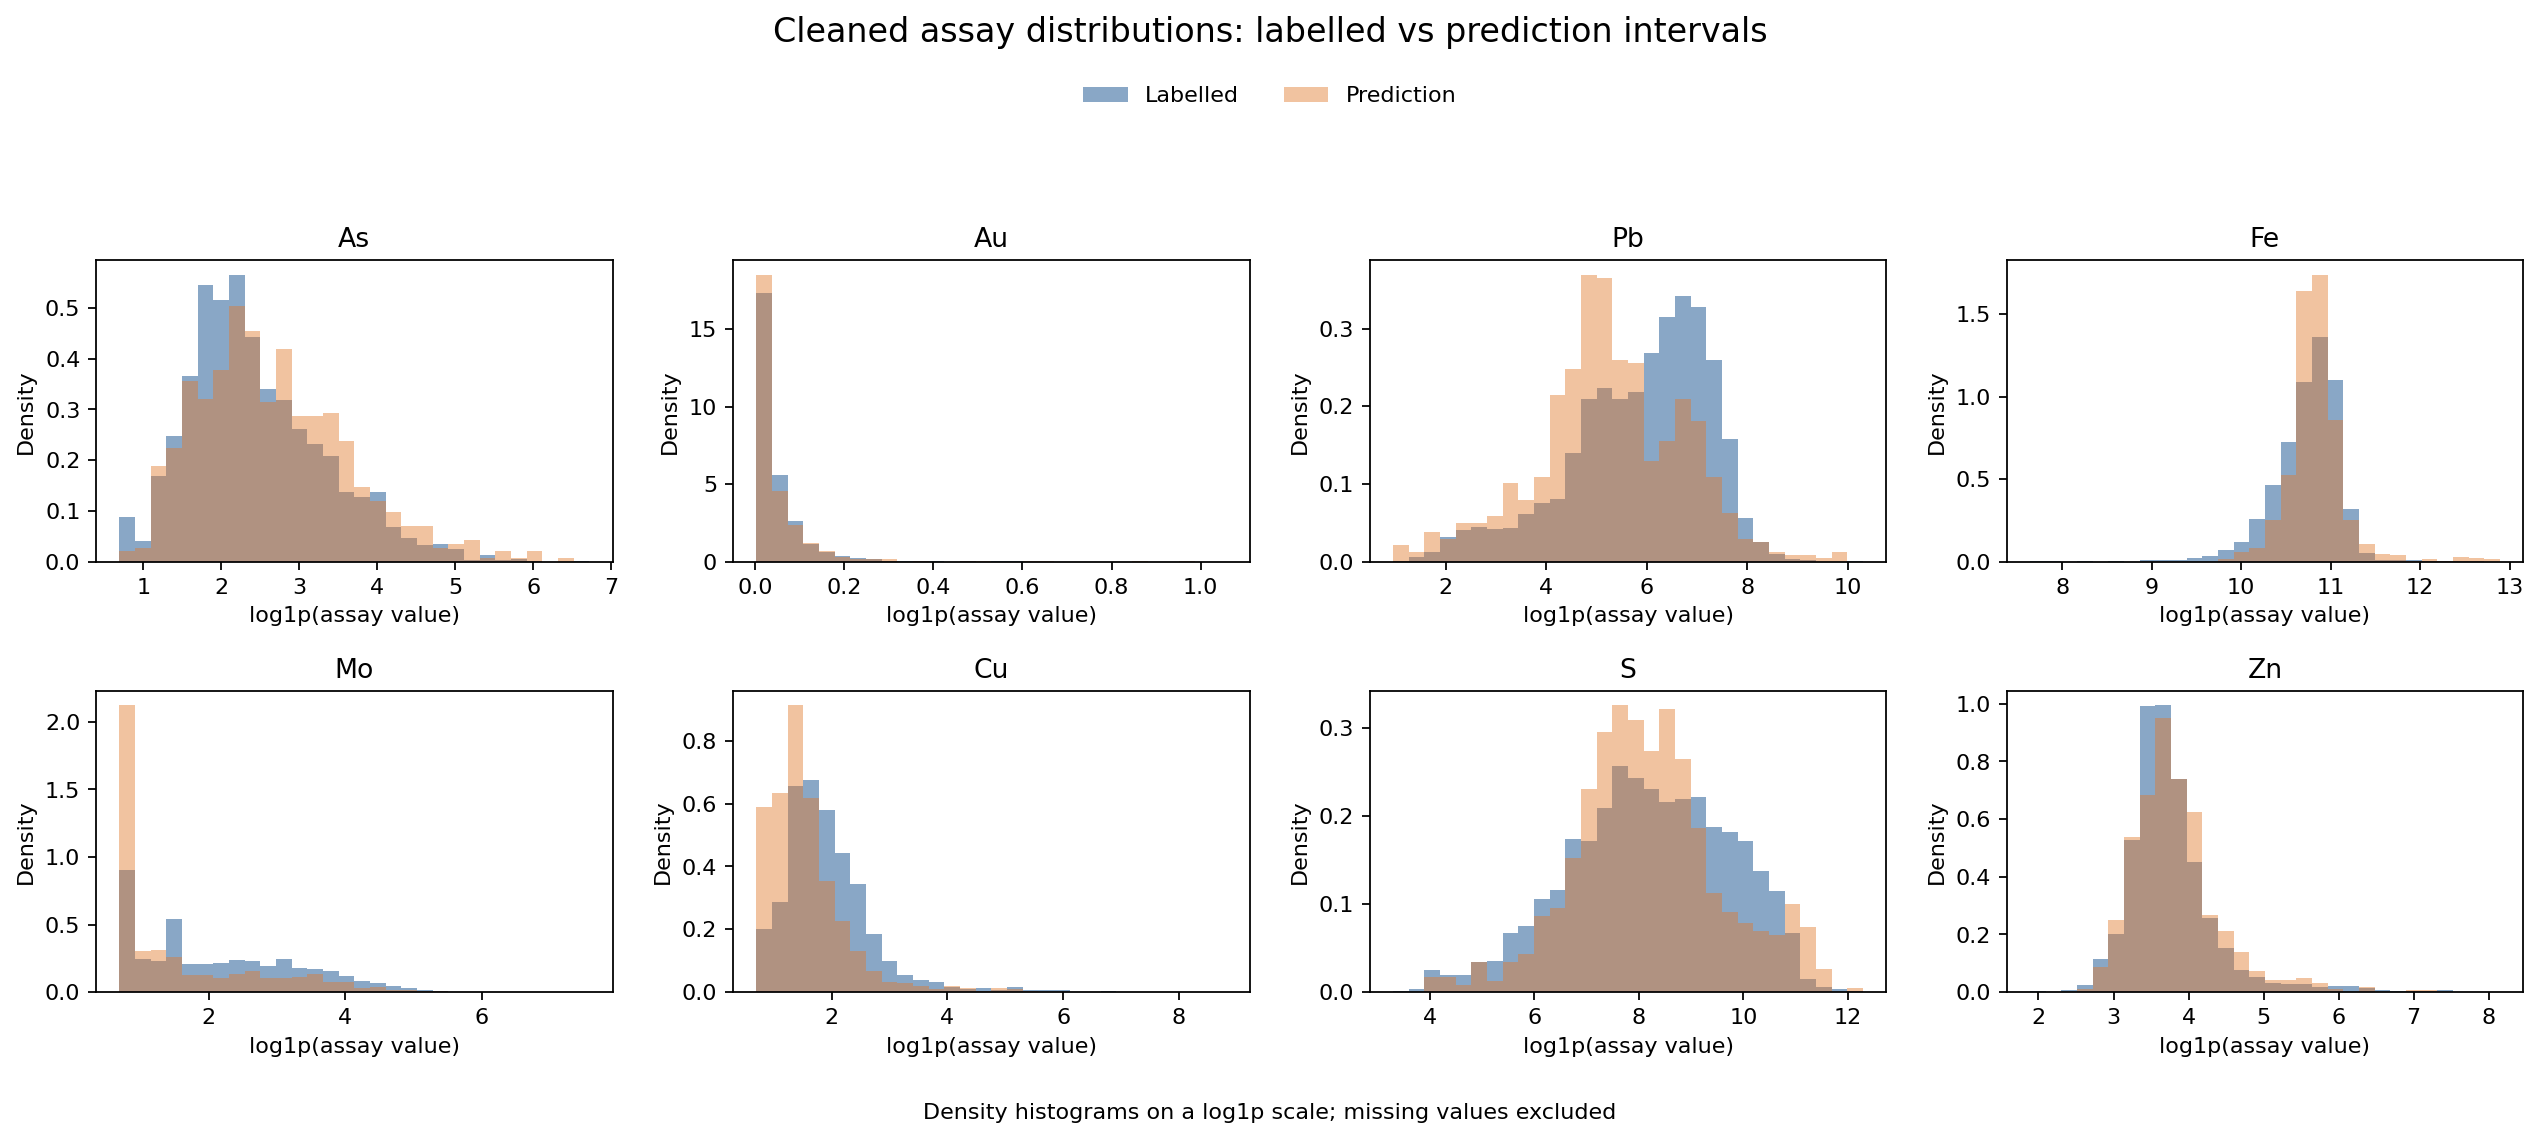
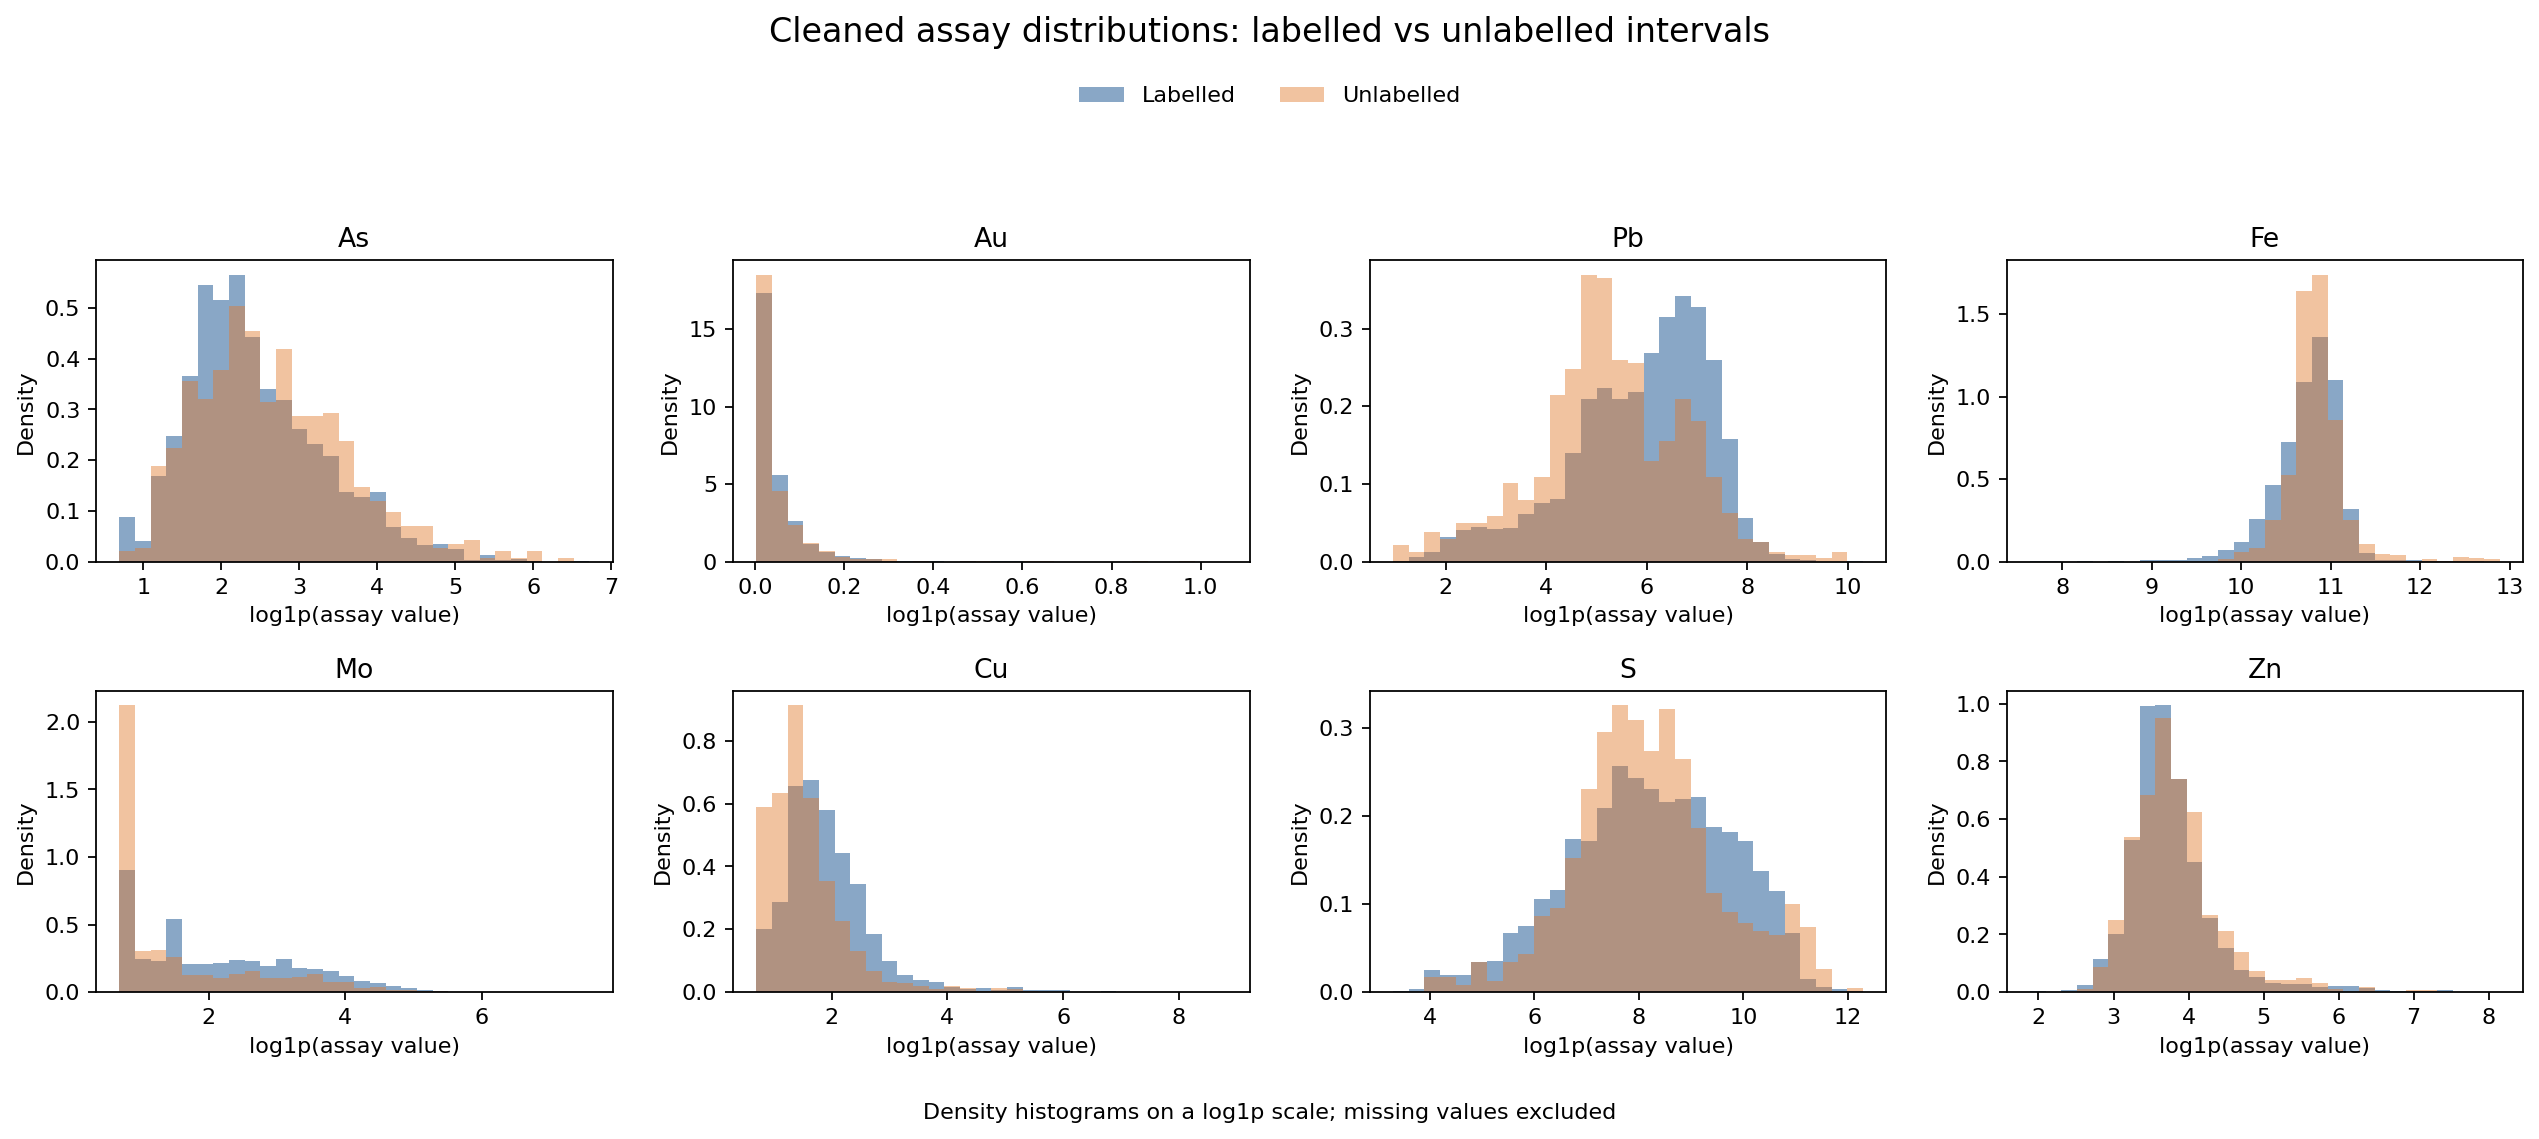
Clarify unlabelled dataset labels

Changed region(s): [[0.3111, 0.0, 0.6845, 0.0922]]

diff --git a/README.md b/README.md
@@ -46,12 +46,12 @@ The results support a predictive prototype. They do not by themselves establish 
 
 ## Data understanding and QA/QC
 
-The source contains 4,004 labelled intervals from 123 holes and 767 prediction intervals from 17 separate holes.
+The source contains 4,004 labelled intervals from 123 holes and 767 unlabelled intervals from 17 separate holes.
 
 | Dataset | Original classes | Intervals | Drill holes |
 |---|---|---:|---:|
 | Labelled | A: 2,861; B: 1,143 | 4,004 | 123 |
-| Prediction | `?`: 767 | 767 | 17 |
+| Unlabelled | `?`: 767 | 767 | 17 |
 
 The workflow checks duplicate sample identifiers, non-positive drill intervals, blank assays, below-detection-limit strings such as `<0.005`, and the `-999` sentinel.
 
@@ -59,7 +59,7 @@ For this exercise, `<x` is replaced with `x / 2`, while `-999` is converted to m
 
 The compact EDA below is calculated before model imputation. Raw quality counts cover the full dataset; missingness and skewness are calculated after applying the documented cleaning rules. Values reported as `<x` are censored assay results rather than missing values.
 
-| Assay | Blank/NA | `<x` values | `-999` | Labelled missing (%) | Prediction missing (%) | Labelled skewness |
+| Assay | Blank/NA | `<x` values | `-999` | Labelled missing (%) | Unlabelled missing (%) | Labelled skewness |
 |---|---:|---:|---:|---:|---:|---:|
 | As | 1,503 | 0 | 0 | 36.19 | 7.04 | 9.68 |
 | Au | 6 | 464 | 0 | 0.12 | 0.13 | 7.51 |
@@ -74,7 +74,7 @@ All eight labelled assay variables are strongly right-skewed on their original s
 
 ![Combined assay distributions](output/plots/assay_distributions.png)
 
-The figure compares cleaned, non-missing labelled and prediction values using density histograms on a `log1p` scale. Missingness is also compared directly between the two datasets.
+The figure compares cleaned, non-missing labelled and unlabelled values using density histograms on a `log1p` scale. Missingness is also compared directly between the two datasets.
 
 ![Missingness comparison](output/plots/missingness_comparison.png)
 
@@ -220,7 +220,7 @@ README.md
 
 - Labels are derived from proximity to an existing orebody interpretation.
 - Grouped cross-validation still shows fold-to-fold and hole-to-hole variation.
-- Missingness differs between the labelled and prediction datasets.
+- Missingness differs between the labelled and unlabelled datasets.
 - Model scores are not calibrated probabilities.
 - The 0.50 classification threshold has not been selected using operational error costs.
 - Intervals are scored independently; no spatial or downhole smoothing is applied.
